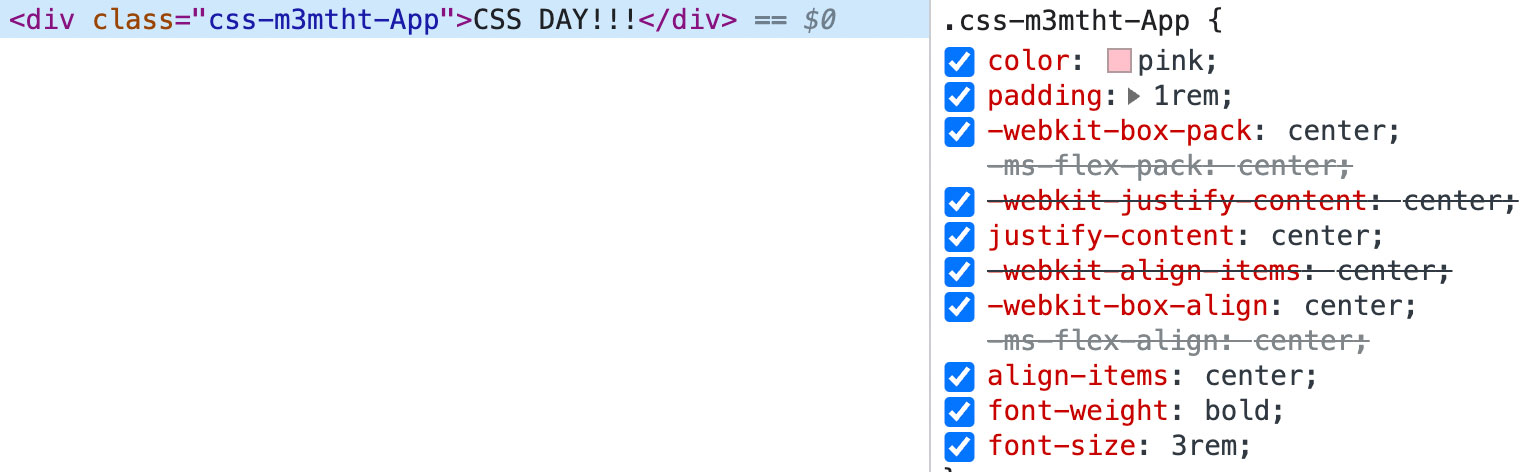
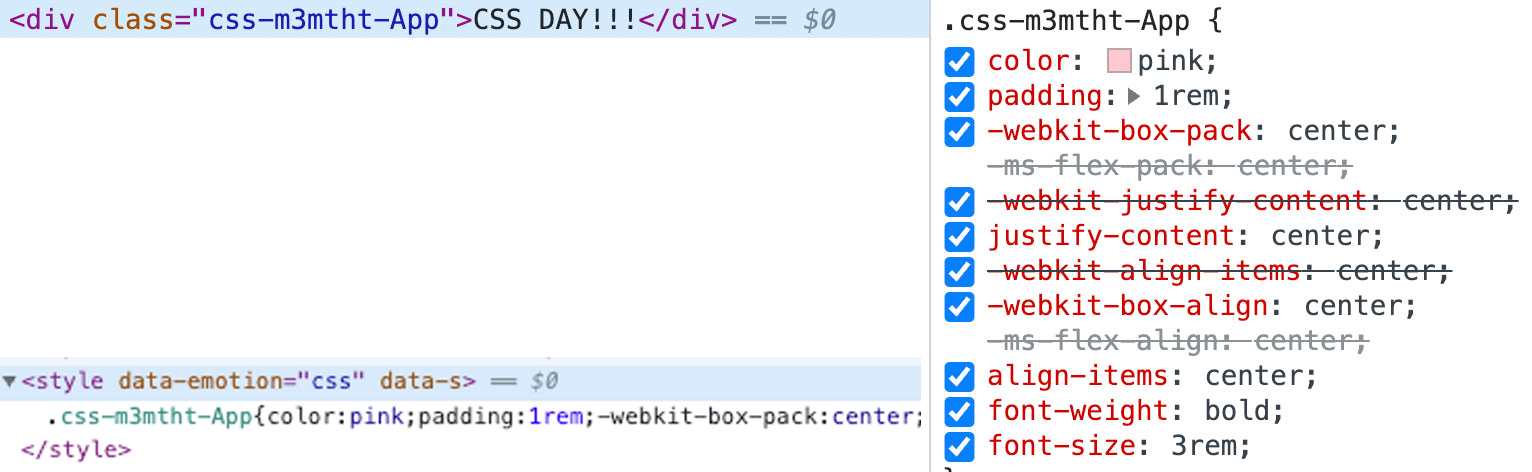
fix after dry run

Changed region(s): [[0.0, 0.7712, 0.6136, 0.9788]]

diff --git a/src/App.tsx b/src/App.tsx
@@ -1,7 +1,7 @@
 /* eslint-disable import/no-webpack-loader-syntax */
 /** @jsxImportSource @emotion/react */
-import React, { useState } from 'react';
-import { ListItem, Deck, Slide, Heading, Progress, FlexBox, Box, FullScreen, Grid, Text, UnorderedList, Appear, OrderedList, CodePane } from 'spectacle';
+import React, { useContext, useState } from 'react';
+import { DeckContext, ListItem, Deck, Slide, Heading, Progress, FlexBox, Box, FullScreen, Grid, Text, UnorderedList, Appear, OrderedList, CodePane, useMousetrap } from 'spectacle';
 import { css, Global, keyframes } from '@emotion/react'
 import styled from '@emotion/styled'
 
@@ -71,9 +71,18 @@ const rotate = keyframes`
   }
 `
 
-function App() {
+function App() {return <Deck template={template}><Pres /></Deck>}
+
+function Pres() {
+  const { regressSlide, stepForward } = useContext(DeckContext)
+  useMousetrap({
+      up: () => regressSlide(),
+      down: () => stepForward()
+    },
+  []
+  );
   return (
-    <Deck template={template}>
+    <>
       <Global styles={css`* {box-sizing: border-box; max-width: 100%;}`} />
       <Slide>
         <FlexBox height="100%" flexDirection="column">
@@ -81,6 +90,7 @@ function App() {
         </FlexBox>
       </Slide>
       <Slide>
+
         <FlexBox height="100%" flexDirection="column">
           <Grid gridTemplateColumns="1fr 2fr" gridColumnGap={15}>
           <Box>
@@ -203,7 +213,7 @@ export const neutral: Colors = {
           <Grid gridTemplateColumns="50% 50%" gridColumnGap={15} css={css`width: 100%; justify-content: center;`}>
             <Box>
               <CodePane language='js' highlightRanges={[1, 8]}>{`
-                cons style = css\`
+                const style = css\`
                   color: pink;
                   padding: 1rem;
                   justify-content: center;
@@ -907,8 +917,8 @@ const Search = () => {
             <Appear><ListItem>Gaia <small>per avermi fatto uscire dalle comfort zone, tutte le comfort zone</small></ListItem></Appear>
           </UnorderedList>
         </FlexBox>
-      </Slide>
-    </Deck>
+        </Slide>
+        </>
   );
 }
 export default App;
